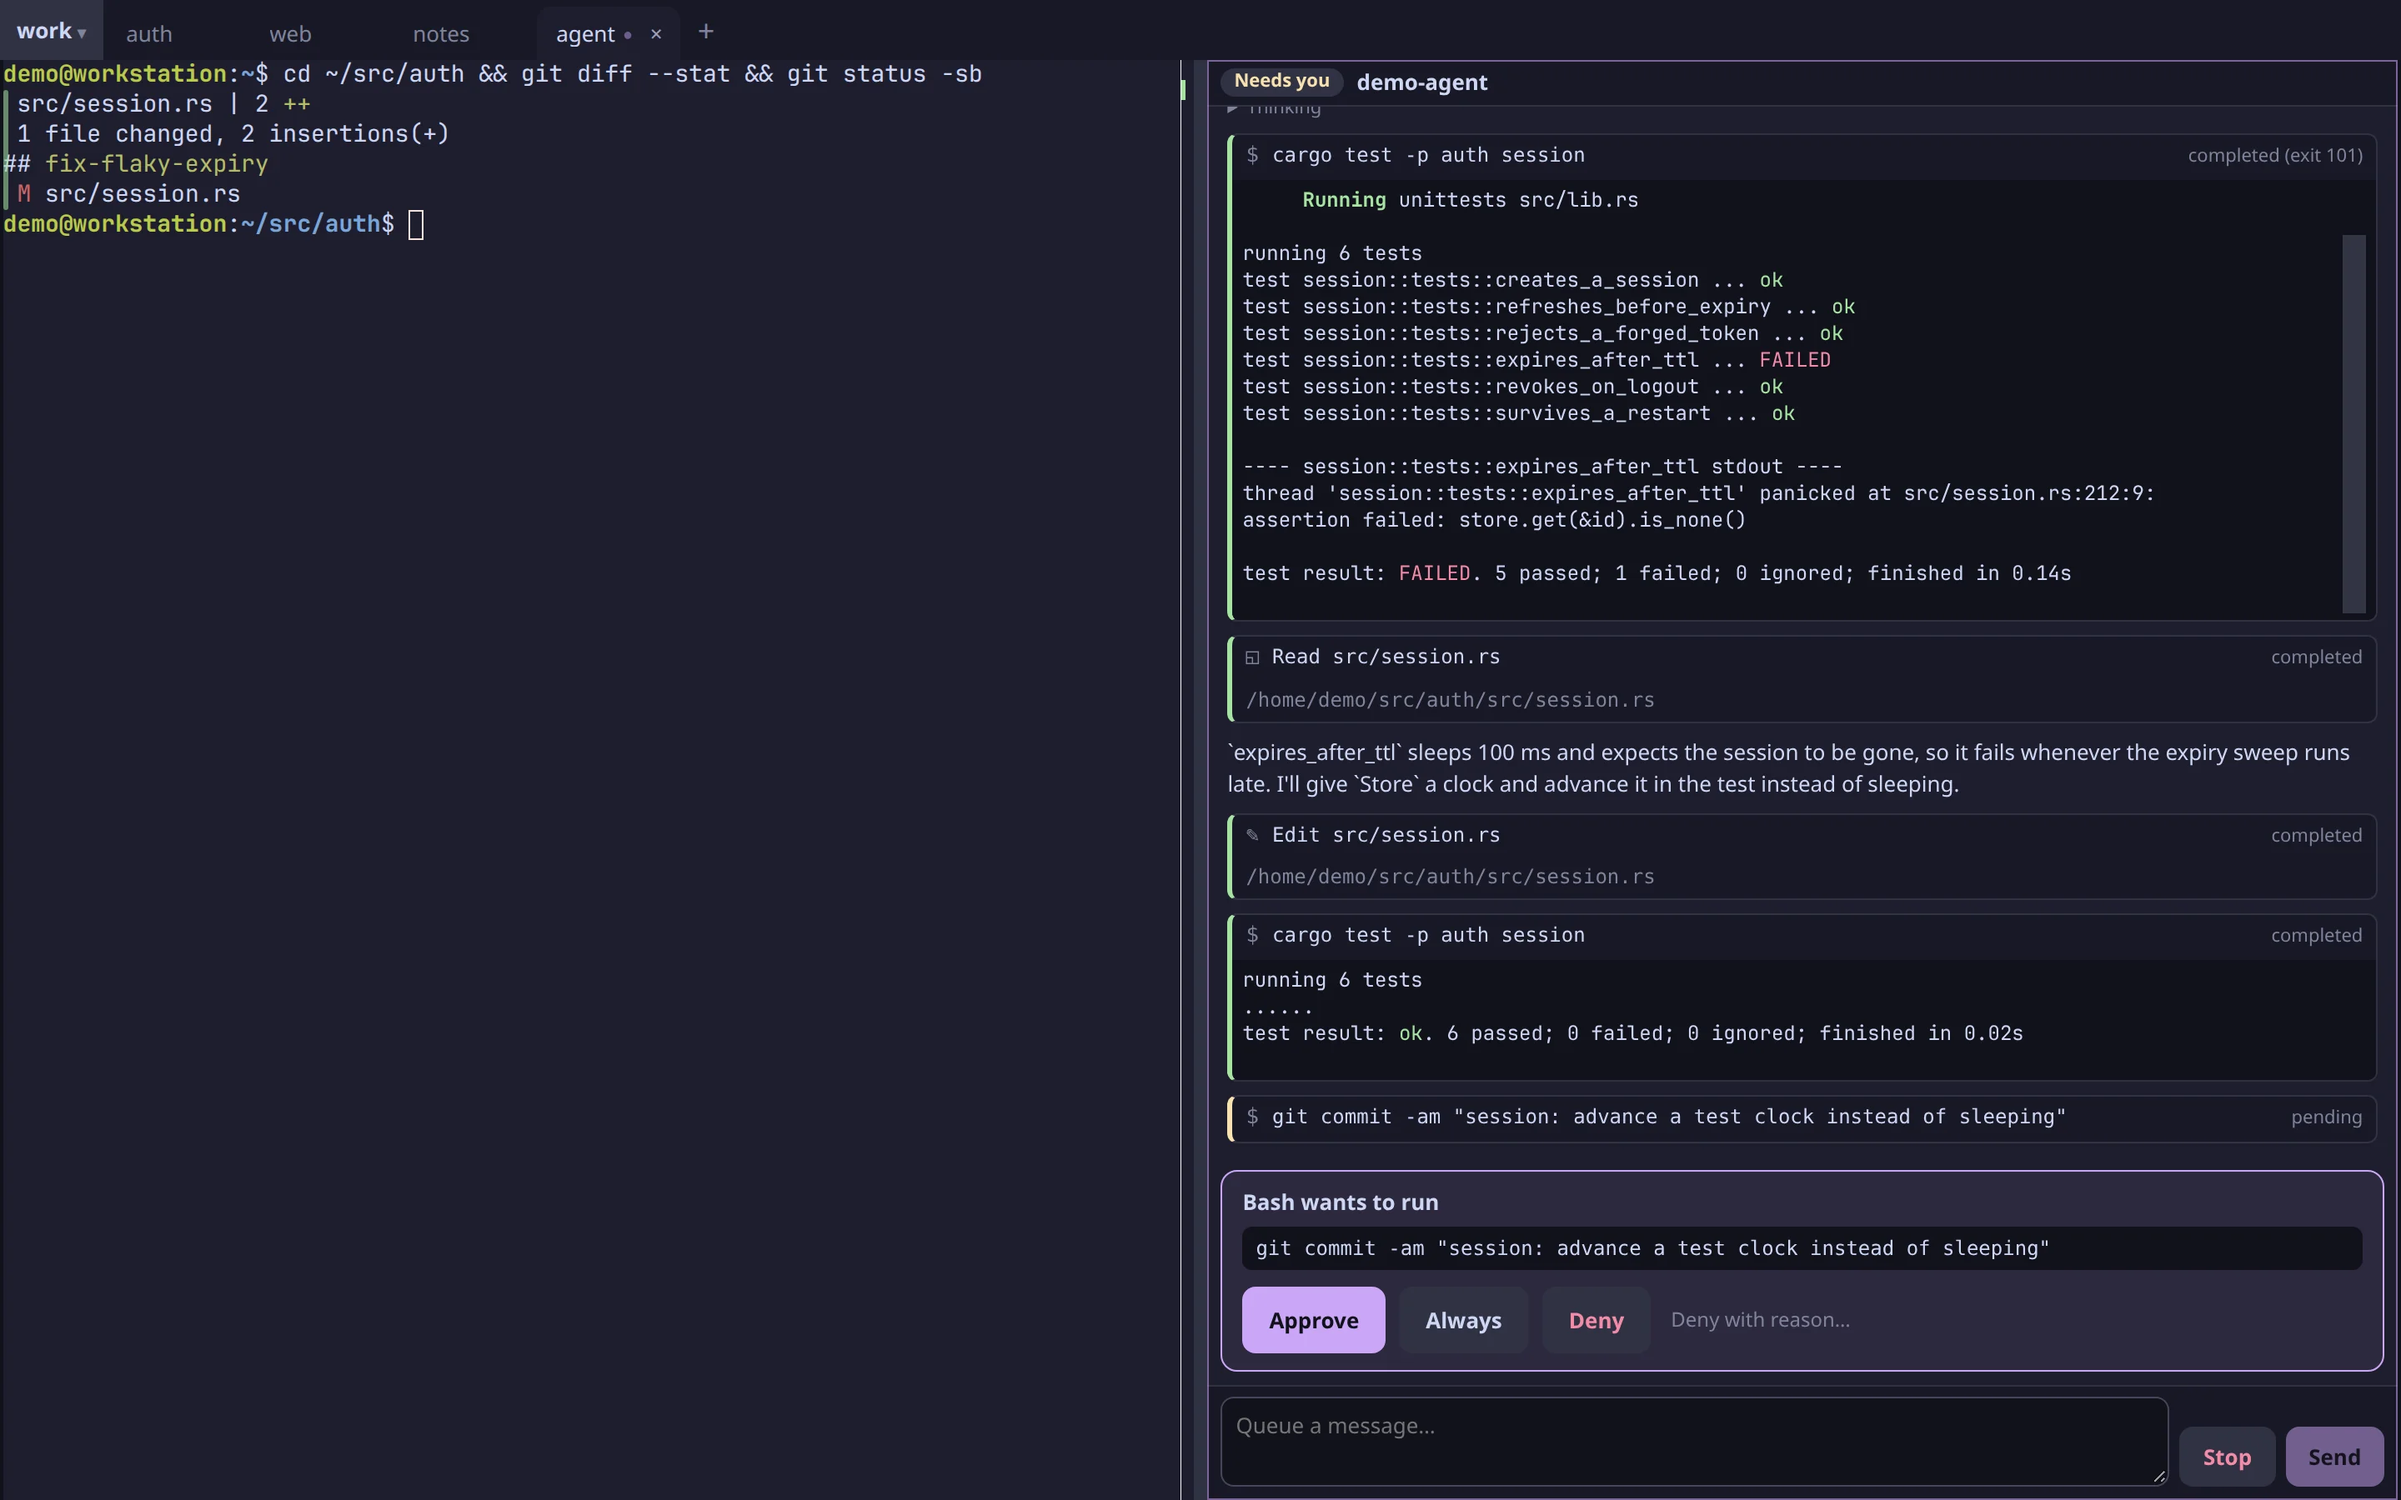
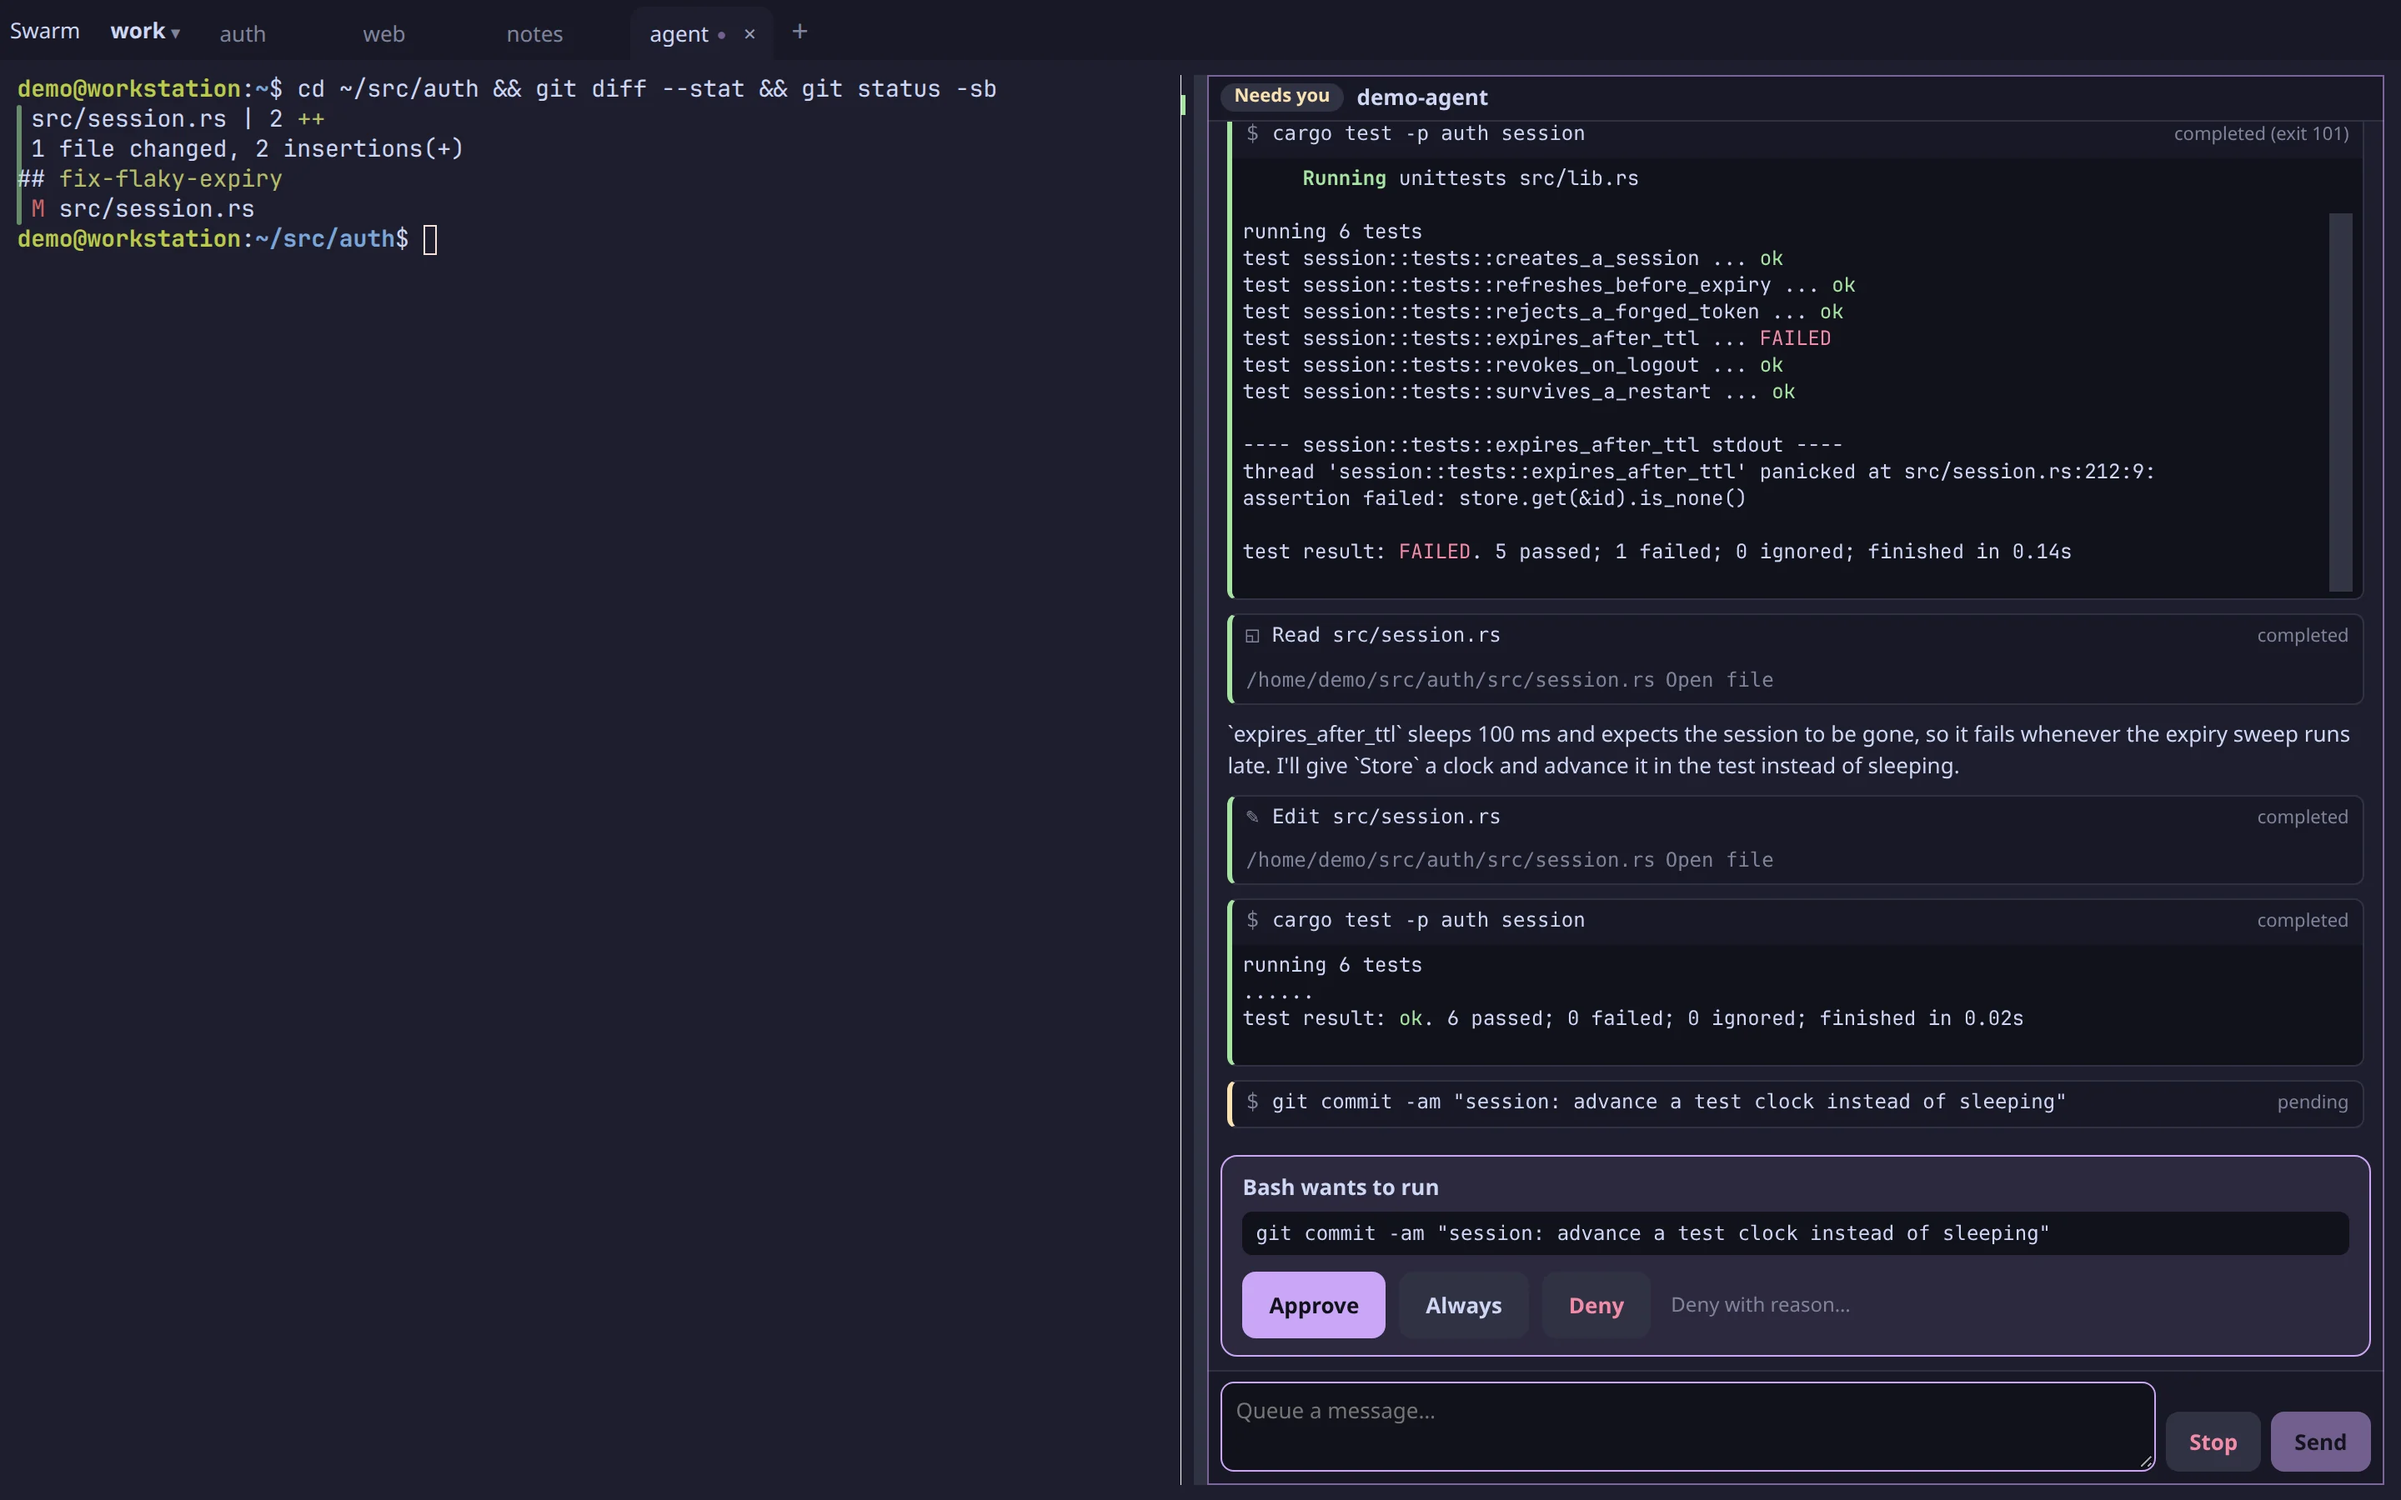
Screenshots and the tour from 0.17 (#215)
* Screenshots and the tour from 0.17

Every image in site/img/ again from `just screenshots`, dive.gif from the
page's tour and og.jpg cropped from swarm.png as before.

The harness now gives its daemon the run's local token (it 401'd since
the local sign-in), turns the update check off (no update chip), hides a
Fountain runner on the machine that makes them, keeps the demo repo's
web/ out of git status, and takes SHOTS_PORT and SHOTS_DEV_PORT. `just
screenshots` builds the web client before the daemon. The page's demo
swarm uses neutral machine and person names, and the changes shot's alt
text says what it shows (a passing run). web/screenshots/dive.mjs makes
the GIF's frames.

* Screenshots on the default ports (the dev server on :5173)

---------

Changed region(s): [[0.5, 0.0311, 1.0, 1.0], [0.0, 0.0, 0.4062, 0.1867], [0.9375, 0.5911, 1.0, 0.6533]]

diff --git a/site/index.html b/site/index.html
@@ -285,7 +285,7 @@
         <div class="peek" id="peek"><div class="ph"><b></b><span></span></div><pre></pre></div>
         <div class="opened" id="opened">
           <figure class="pane">
-            <figcaption class="ph"><b>%62</b> agent · jake-mini <span class="path">· ~/src/auth</span><span class="st">claude code · open</span></figcaption>
+            <figcaption class="ph"><b>%62</b> agent · workstation <span class="path">· ~/src/auth</span><span class="st">claude code · open</span></figcaption>
             <picture>
               <source srcset="img/agent.webp" type="image/webp">
               <img src="img/agent.png" width="2880" height="1800" alt="An agent working through a failing test beside a shell, with its commands and results visible">
@@ -318,7 +318,7 @@
           <p>Questions and approval requests lift out to one rail. Whoever answers first is named on the card.</p>
           <div class="card" aria-hidden="true">
             <div class="ch"><b>Claude Code asks</b></div>
-            <div class="cm">%62 · jake-mini · api</div>
+            <div class="cm">%62 · workstation · api</div>
             <div class="cq">Bash wants to run <code>cargo test -p auth</code></div>
             <div class="ca"><button type="button" class="pri" tabindex="-1">Allow</button><button type="button" tabindex="-1">Deny</button></div>
           </div>
@@ -358,12 +358,12 @@
 
     <section class="feature">
       <div class="text">
-        <p class="meta"><i style="background:var(--k-shell)"></i>jake-mini · restored · scrollback kept</p>
+        <p class="meta"><i style="background:var(--k-shell)"></i>workstation · restored · scrollback kept</p>
         <h2 class="cl">Close the browser. Keep sessions running.</h2>
         <p>Your sessions run on the host machine, independently of your browser. Reopen the workspace to see your terminals and their output.</p>
       </div>
       <figure class="pane opens" style="--c: var(--k-shell)">
-        <figcaption class="ph"><b>%41</b> shell · jake-mini <span class="path">· ~/src/auth</span><span class="st">restored</span></figcaption>
+        <figcaption class="ph"><b>%41</b> shell · workstation <span class="path">· ~/src/auth</span><span class="st">restored</span></figcaption>
         <picture>
           <source srcset="img/restored.webp" type="image/webp">
           <img src="img/restored.png" width="2880" height="1800" loading="lazy" alt="A restored workspace with earlier terminal output preserved above fresh prompts">
@@ -398,7 +398,7 @@
             <figcaption class="ph"><b>changes</b> · ~/src/auth <span class="st">read-only</span></figcaption>
             <picture>
               <source srcset="img/changes.webp" type="image/webp">
-              <img src="img/changes.png" width="2880" height="1800" loading="lazy" alt="A failing test run beside a diff block listing the changed files with their hunks, and a file block open at the new sweep function">
+              <img src="img/changes.png" width="2880" height="1800" loading="lazy" alt="A passing test run beside a diff block listing the changed files with their hunks, and a file block open at the new sweep function">
             </picture>
           </figure>
           <h3>What changed</h3>
@@ -417,7 +417,7 @@
         </div>
         <div class="kind">
           <figure class="pane opens" style="--c: var(--k-editor)">
-            <figcaption class="ph"><b>vs code</b> · session.rs:212 <span class="st">on jake-mini</span></figcaption>
+            <figcaption class="ph"><b>vs code</b> · session.rs:212 <span class="st">on workstation</span></figcaption>
             <picture>
               <source srcset="img/editor.webp" type="image/webp">
               <img src="img/editor.png" width="2880" height="1800" loading="lazy" alt="A passing test run beside VS Code, open on the same repository at the changed function">
@@ -594,8 +594,8 @@ just bootstrap && just install</pre>
     const weighted = (pairs) => { let r = rnd() * pairs.reduce((s, p) => s + p[1], 0); for (const [v, w] of pairs) if ((r -= w) <= 0) return v; return pairs[0][0]; };
 
     const PROJ = [["api", 40], ["infra", 34], ["docs", 44], ["web", 30], ["mobile", 32], ["~/scratch", 26], ["/tmp", 22]];
-    const MACH = [["jake-mini", 3], ["build-01", 2], ["build-02", 2], ["team-box", 3], ["geek", 2], ["sam-laptop", 2]];
-    const WHO = [["jake", 4], ["sam", 3], ["priya", 3], ["ana", 2], ["devon", 2]];
+    const MACH = [["workstation", 3], ["build-01", 2], ["build-02", 2], ["team-box", 3], ["build-03", 2], ["sam-laptop", 2]];
+    const WHO = [["kim", 4], ["sam", 3], ["priya", 3], ["ana", 2], ["devon", 2]];
     const KINDW = [["shell", 22], ["build", 18], ["test", 20], ["agent", 16], ["server", 10], ["logs", 7], ["editor", 7]];
     const LINES = {
       shell: ["$ git status", "On branch main", "nothing to commit, clean", "$ ls", "Cargo.toml  src  web", "$ "],
@@ -613,7 +613,7 @@ just bootstrap && just install</pre>
       tiles.push({ id: id++, proj: p, mach: weighted(MACH), who: weighted(WHO), kind: weighted(KINDW), busy: rnd() < 0.76,
         x: 0, y: 0, tx: 0, ty: 0, jx: (rnd() - 0.5) * 1.6, jy: (rnd() - 0.5) * 1.2, ph: rnd() * 6.28, need: null, sh: (rnd() * 3) | 0 });
     const hero = tiles.find((t) => t.id === 62);
-    Object.assign(hero, { kind: "agent", mach: "jake-mini", who: "jake", busy: true, sh: 0 });
+    Object.assign(hero, { kind: "agent", mach: "workstation", who: "kim", busy: true, sh: 0 });
     document.getElementById("n-panes").textContent = tiles.length;
 
     const offs = [];

diff --git a/web/screenshots/shots.spec.ts b/web/screenshots/shots.spec.ts
@@ -11,9 +11,13 @@ import { fileURLToPath } from "node:url";
 import { devices, expect, test, type Page } from "@playwright/test";
 import type { PaneId } from "../src/proto";
 import { menu, open, paneEl, panes, ready, reset, text } from "../e2e/helpers";
+import "../e2e/local-token";
 
-const PORT = 7689;
-const BLOCK_PORT = 7690;
+// SHOTS_PORT moves the daemon (and its block port, the next one up) and
+// SHOTS_DEV_PORT the demo dev server, when these are taken.
+const PORT = Number(process.env.SHOTS_PORT ?? 7689);
+const BLOCK_PORT = PORT + 1;
+const DEV_PORT = Number(process.env.SHOTS_DEV_PORT ?? 5173);
 const base = `http://127.0.0.1:${PORT}`;
 const here = dirname(fileURLToPath(import.meta.url));
 const out = join(here, "../../site/img");
@@ -115,14 +119,14 @@ printf 'test result: \\033[32mok\\033[0m. 6 passed; 0 failed; 0 ignored; finishe
 `;
 
 // A stand-in for npm: `npm run dev` says what Vite would, then serves web/.
-const NPM = `#!/bin/sh
+const NPM = () => `#!/bin/sh
 printf '\\n> auth-admin@0.4.2 dev\\n> vite\\n\\n'
 sleep 0.3
 printf '  \\033[1;32mVITE\\033[0m \\033[32mv6.3.5\\033[0m  ready in \\033[1m284\\033[0m ms\\n\\n'
-printf '  \\033[32m➜\\033[0m  \\033[1mLocal\\033[0m:   \\033[36mhttp://localhost:\\033[1m5173\\033[0;36m/\\033[0m\\n'
+printf '  \\033[32m➜\\033[0m  \\033[1mLocal\\033[0m:   \\033[36mhttp://localhost:\\033[1m${DEV_PORT}\\033[0;36m/\\033[0m\\n'
 printf '  \\033[2m➜  Network: use --host to expose\\033[0m\\n'
 printf '  \\033[2m➜  press h + enter to show help\\033[0m\\n'
-exec python3 -m http.server 5173 --bind 127.0.0.1 --directory web >/dev/null 2>&1
+exec python3 -m http.server ${DEV_PORT} --bind 127.0.0.1 --directory web >/dev/null 2>&1
 `;
 
 // What the dev server serves: the auth crate's admin page.
@@ -273,10 +277,12 @@ function demoHome() {
     git(repo, "add", "-A");
     git(repo, "commit", "-q", "-m", msg);
   }
-  writeFileSync(join(home, "bin/npm"), NPM);
+  writeFileSync(join(home, "bin/npm"), NPM());
   chmodSync(join(home, "bin/npm"), 0o755);
+  // The admin page, out of git's way (the shots show `git status`).
   mkdirSync(join(repo, "web"));
   writeFileSync(join(repo, "web/index.html"), ADMIN_HTML);
+  writeFileSync(join(repo, ".git/info/exclude"), "web/\n");
   git(repo, "checkout", "-q", "-b", "fix-flaky-expiry");
   writeFileSync(join(repo, "src/session.rs"), SESSION_RS + "\n// TODO: sweep on a timer\n");
 }
@@ -301,6 +307,12 @@ async function startDaemon() {
         USER: "demo",
         LANG: "C.UTF-8",
         TERM: "xterm-256color",
+        // No "a newer release is out" chip in the pictures.
+        ILLOGICAL_NO_UPDATE_CHECK: "true",
+        // Not this machine's Fountain runner, if it is one (no menu item).
+        ILLOGICAL_FOUNTAIN_UNIT_FILE: join(root, "no-fountain-runner.service"),
+        // The browser's cookie and Node's fetch carry this (e2e/local-token.ts).
+        ILLOGICAL_LOCAL_TOKEN_FILE: process.env.ILLOGICAL_LOCAL_TOKEN_FILE!,
         PATH: [join(home, "bin"), nvim, "/usr/local/bin", "/usr/bin", "/bin"].filter(Boolean).join(":"),
       },
     },
@@ -464,6 +476,7 @@ test.describe("desktop", () => {
     await block.locator(".agent-composer textarea").fill("and the other sleeps?");
     await block.getByRole("button", { name: "Send" }).click();
     await expect(block.getByText("Inject the clock everywhere")).toBeVisible();
+    await page.mouse.move(0, 0);
     await page.waitForTimeout(500);
     await block.screenshot({ path: join(out, "question.png") });
   });
@@ -525,13 +538,13 @@ test.describe("blocks", () => {
     await expect.poll(() => text(page, shell)).toContain("ready in");
     for (let i = 0; i < 50; i++) {
       try {
-        if ((await fetch("http://127.0.0.1:5173/")).ok) break;
+        if ((await fetch(`http://127.0.0.1:${DEV_PORT}/`)).ok) break;
       } catch {
         // not up yet
       }
       await page.waitForTimeout(100);
     }
-    const block = await openBlock(page, { type: "browser", config: { port: 5173, path: "/" }, split: shell });
+    const block = await openBlock(page, { type: "browser", config: { port: DEV_PORT, path: "/" }, split: shell });
     const frame = paneEl(page, block).frameLocator("iframe");
     await expect(frame.getByText("Live sessions")).toBeVisible({ timeout: 30_000 });
     await settle(page);

diff --git a/web/screenshots/swarm.spec.ts b/web/screenshots/swarm.spec.ts
@@ -18,6 +18,11 @@ const PROJECTS = ["api", "web", "mobile", "infra", "docs"];
 /** Panes per machine, about 360 in all. */
 const PER_MACHINE = 60;
 
+// The fleet's daemons inherit this: no "a newer release is out" chip.
+process.env.ILLOGICAL_NO_UPDATE_CHECK = "true";
+// Nor this machine's Fountain runner, if it is one.
+process.env.ILLOGICAL_FOUNTAIN_UNIT_FILE = "/nonexistent/fountain-runner.service";
+
 let fake: FakeFleet;
 let base = "";
 

diff --git a/docs/development.md b/docs/development.md
@@ -29,7 +29,9 @@ against the running one. `workspace.spec.ts` runs the real chant: its first run
 installs the pinned version into `web/e2e/fixtures/chant-workspace` with
 `npm ci` (CI doesn't run the browser tests; the daemon's own workspace
 tests use a stand-in chant). `just screenshots` regenerates the images in
-`site/img/` from a throwaway daemon with a scripted demo session.
+`site/img/` from a throwaway daemon with a scripted demo session
+(`SHOTS_PORT` and `SHOTS_DEV_PORT` move its ports); the README's
+`dive.gif` is the page's own tour, made by `web/screenshots/dive.mjs`.
 
 ## Releasing
 
